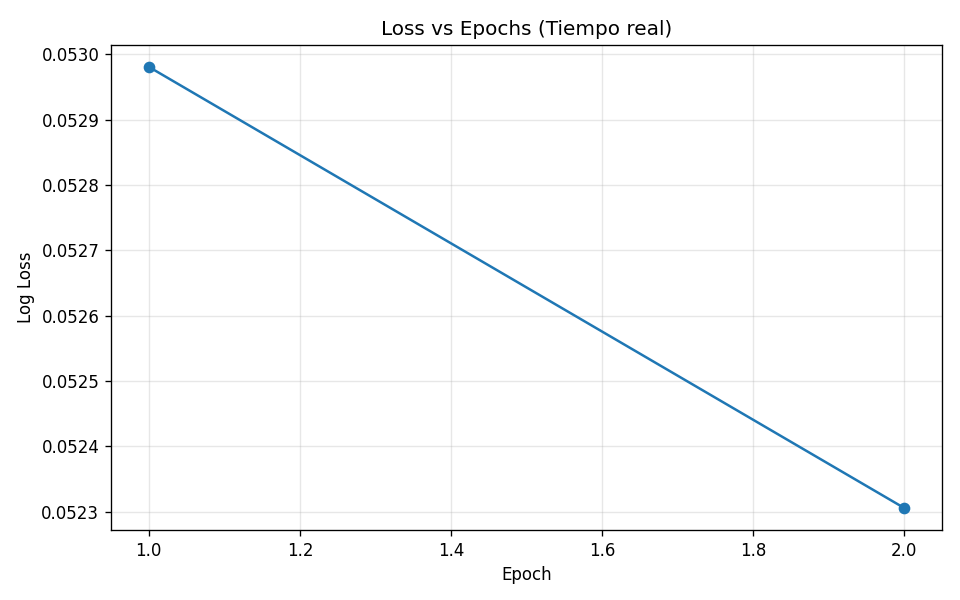
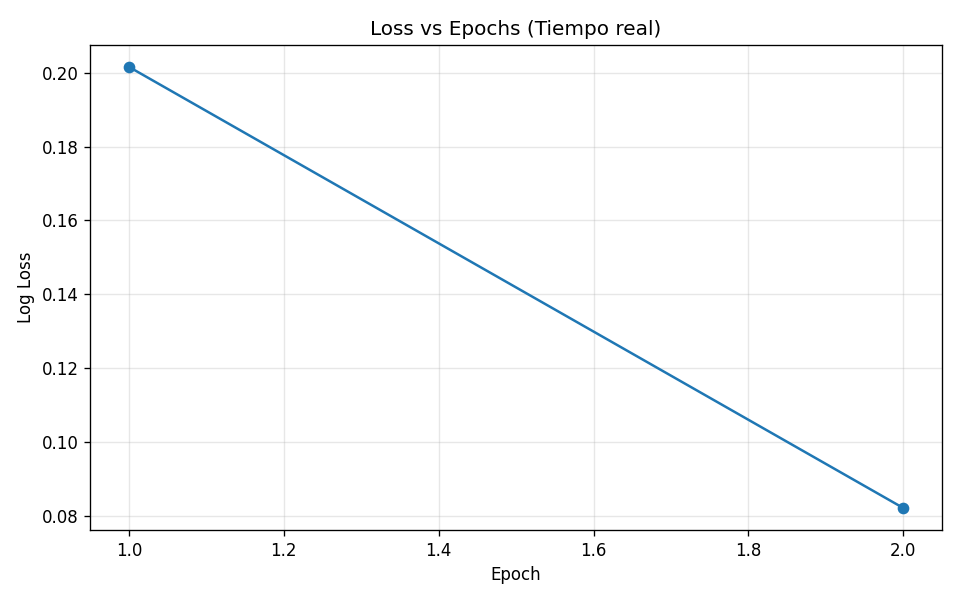
Revisado 21-02-2026

diff --git a/reports/paso2_reporte.html b/reports/paso2_reporte.html
@@ -17,13 +17,13 @@
 </head>
 <body>
   <h1>PASO 2 - REPORTE (Modelado + Visualización)</h1>
-  <div class="muted">Working directory: <code>C:\laragon\www\analisis-datos-pandas-numpy</code></div>
+  <div class="muted">Working directory: <code>C:\Users\SISTEMAS 02\Desktop\Proyectos_Practicantes\analisis-datos-pandas-numpy</code></div>
 
   <div class="card">
     <h2>Modelo base</h2>
     <table>
       <tr><th>Modelo</th><td>Logistic Regression</td></tr>
-      <tr><th>Accuracy</th><td>0.9901</td></tr>
+      <tr><th>Accuracy</th><td>0.9895</td></tr>
     </table>
   </div>
 
@@ -31,9 +31,9 @@
     <h2>Aprendizaje</h2>
     <table>
       <tr><th>Modelo</th><td>SGDClassifier (log_loss)</td></tr>
-      <tr><th>Epochs</th><td>20</td></tr>
-      <tr><th>Loss inicial</th><td>0.052981</td></tr>
-      <tr><th>Loss final</th><td>0.049513</td></tr>
+      <tr><th>Epochs</th><td>5</td></tr>
+      <tr><th>Loss inicial</th><td>0.201557</td></tr>
+      <tr><th>Loss final</th><td>0.058003</td></tr>
     </table>
   </div>
 
@@ -46,9 +46,9 @@
     </table>
     <p class="muted">Rutas completas:</p>
     <ul>
-      <li>C:\laragon\www\analisis-datos-pandas-numpy\reports\paso2_decision_surface.png</li>
-      <li>C:\laragon\www\analisis-datos-pandas-numpy\reports\paso2_learning_curve_realtime.gif</li>
-      <li>C:\laragon\www\analisis-datos-pandas-numpy\reports\paso2_2x2_dashboard.png</li>
+      <li>C:\Users\SISTEMAS 02\Desktop\Proyectos_Practicantes\analisis-datos-pandas-numpy\reports\paso2_decision_surface.png</li>
+      <li>C:\Users\SISTEMAS 02\Desktop\Proyectos_Practicantes\analisis-datos-pandas-numpy\reports\paso2_learning_curve_realtime.gif</li>
+      <li>C:\Users\SISTEMAS 02\Desktop\Proyectos_Practicantes\analisis-datos-pandas-numpy\reports\paso2_2x2_dashboard.png</li>
     </ul>
   </div>
 </body>

diff --git a/README.md b/README.md
@@ -170,3 +170,13 @@ Entrenamiento de modelo
 Curva de aprendizaje
 Dashboard 2x2
 Exportación de reportes
+
+**Notas de mejora**
+
+- Documentación: corregir y simplificar los comandos de activación y distinguir claramente CMD / PowerShell / Git Bash.
+- Dependencias: separar un `requirements-core.txt` (mínimo) y un `requirements-dev.txt` (Jupyter, tests, tooling).
+- Instalación: indicar dependencias críticas (`imageio`, `imageio-ffmpeg`) y cómo instalar `torch` para CPU/GPU.
+- Robustez: asegurar que los scripts creen `data/` y `reports/` si no existen; añadir un `check_env.py` (smoke-test).
+- Errores comunes: listar soluciones rápidas (activar .venv correctamente, usar `.venv/Scripts/python.exe` si hay problemas de shell).
+
+Nota: 13
